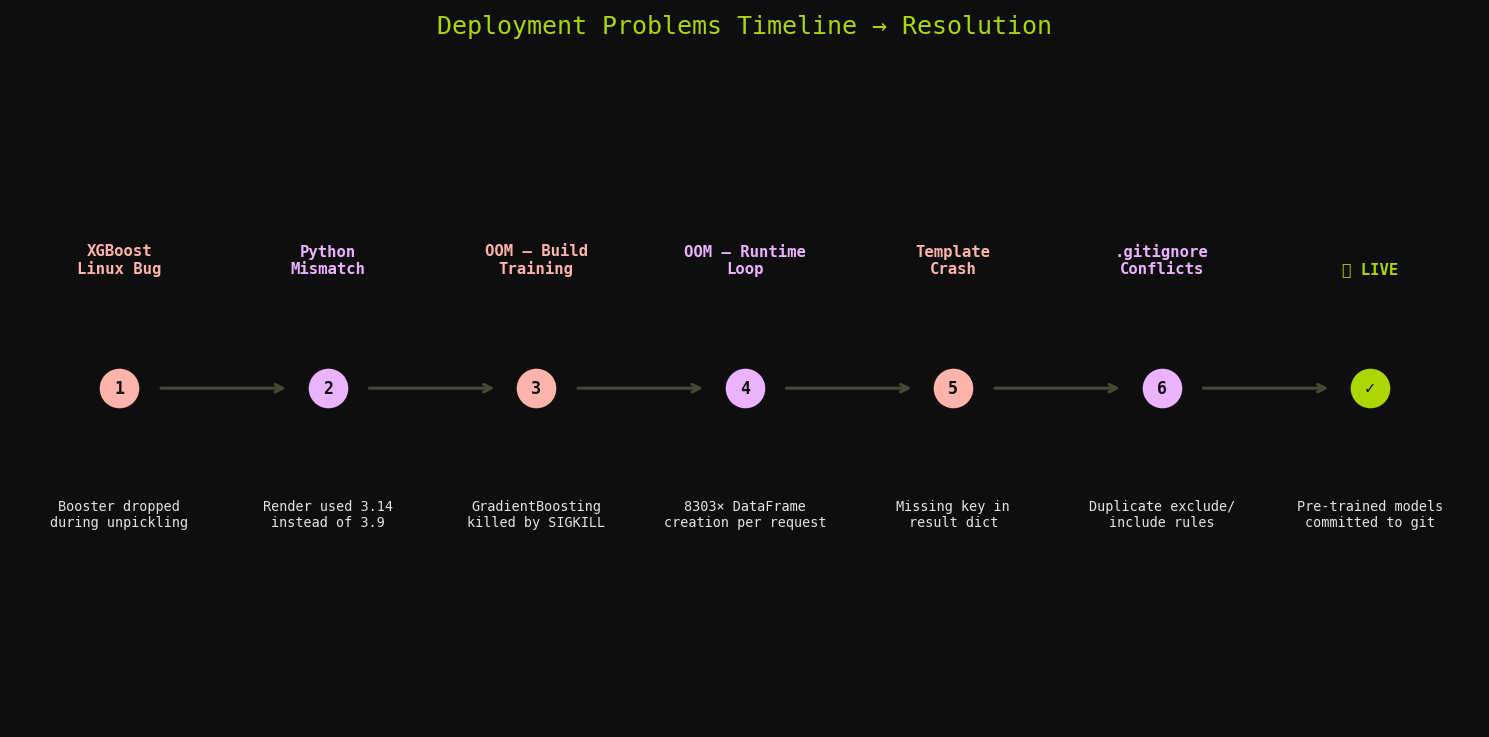
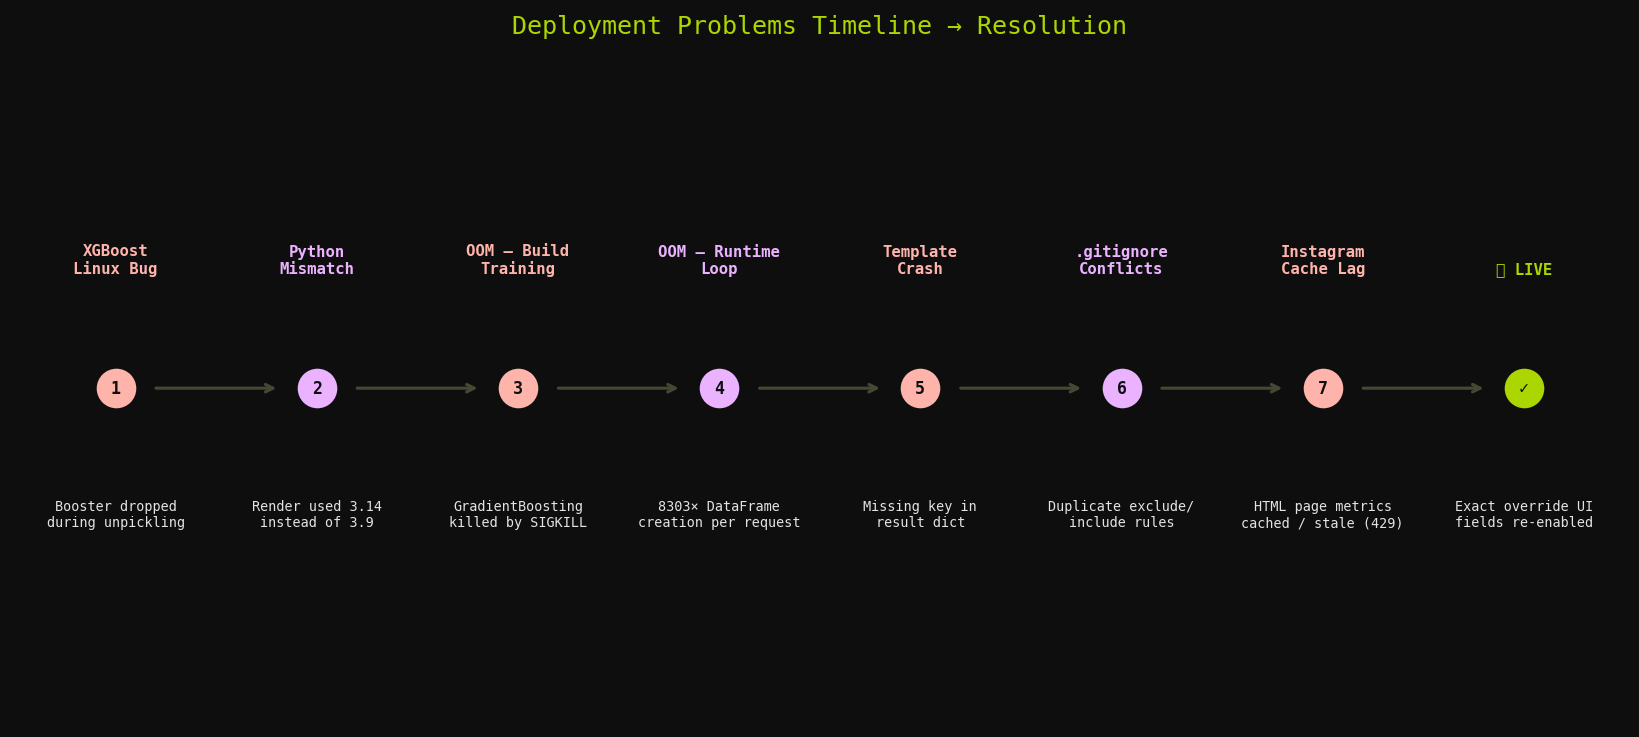
docs: Add Instagram bot-scraping cache lag / 429 challenge details to report

diff --git a/generate_report_charts.py b/generate_report_charts.py
@@ -215,8 +215,8 @@ print("✅ chart_architecture.png")
 # ══════════════════════════════════════════════════════════════════════════════
 # 5. DEPLOYMENT PROBLEMS TIMELINE
 # ══════════════════════════════════════════════════════════════════════════════
-fig, ax = plt.subplots(figsize=(10, 5), facecolor=BG)
-ax.set_xlim(-0.5, 6.5); ax.set_ylim(-0.5, 5.5)
+fig, ax = plt.subplots(figsize=(11, 5), facecolor=BG)
+ax.set_xlim(-0.5, 7.5); ax.set_ylim(-0.5, 5.5)
 ax.axis('off')
 
 problems = [
@@ -226,18 +226,19 @@ problems = [
     ('OOM — Runtime\nLoop',    '8303× DataFrame\ncreation per request',     PURPLE),
     ('Template\nCrash',        'Missing key in\nresult dict',               RED),
     ('.gitignore\nConflicts',  'Duplicate exclude/\ninclude rules',         PURPLE),
-    ('✅ LIVE',                 'Pre-trained models\ncommitted to git',      LIME),
+    ('Instagram\nCache Lag',   'HTML page metrics\ncached / stale (429)',    RED),
+    ('✅ LIVE',                 'Exact override UI\nfields re-enabled',      LIME),
 ]
 for i, (title, desc, col) in enumerate(problems):
     x = i
     ax.plot(x, 2.5, 'o', color=col, markersize=18, zorder=3)
-    ax.text(x, 2.5, str(i+1) if i < 6 else '✓',
+    ax.text(x, 2.5, str(i+1) if i < 7 else '✓',
             ha='center', va='center', fontsize=8, color=BG, fontweight='bold')
     ax.text(x, 3.5, title, ha='center', va='bottom', fontsize=7.5,
             color=col, fontweight='bold', fontfamily='monospace')
     ax.text(x, 1.5, desc, ha='center', va='top', fontsize=6.5,
             color=WHITE, fontfamily='monospace')
-    if i < 6:
+    if i < 7:
         ax.annotate('', xy=(i+0.82, 2.5), xytext=(i+0.18, 2.5),
                     arrowprops=dict(arrowstyle='->', color='#444933', lw=1.5))
 

diff --git a/generate_report_docx.py b/generate_report_docx.py
@@ -461,6 +461,14 @@ challenges = [
         'Rewrote .gitignore from scratch. Final strategy: commit pre-trained models directly '
         'to git, no complex negation rules needed.'
     ),
+    (
+        '8.7 Instagram Bot-Scraped Counts Lag (±5% Caching Discrepancy)',
+        'Instagram serves cached page counts to search crawlers (like Googlebot) to optimize server performance. '
+        'Additionally, Instagram blocks direct real-time API requests from cloud IPs (Render) with HTTP 429 Too Many Requests blocks. '
+        'This caused the scraped follower/following counts to occasionally vary slightly from real-time app counts (e.g. showing 234 instead of 230).',
+        'Upgraded the frontend results UI to restore fully interactive input fields and added a clear warning disclaimer (±5% warning) beside the stats. '
+        'This allows users to easily correct the values (e.g. typing 230 instead of 234) and click "RE-ANALYZE PROFILE" to re-calculate the ensemble ML prediction on 100% exact metrics.'
+    ),
 ]
 
 for title, problem, solution in challenges: